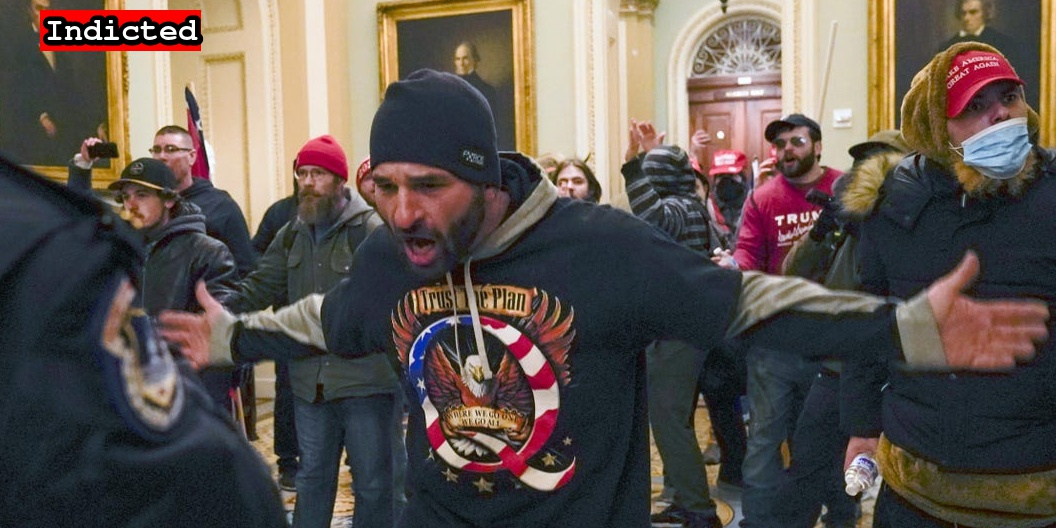
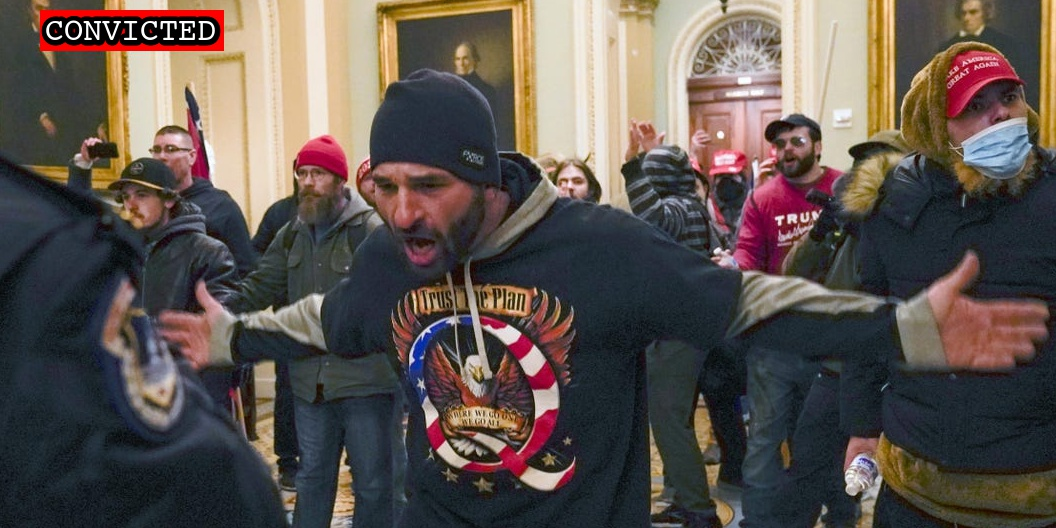
Jensen conviction

Changed region(s): [[0.0312, 0.0, 0.2188, 0.1212]]

diff --git a/docs/_suspects/douglas-jensen.md b/docs/_suspects/douglas-jensen.md
@@ -4,11 +4,11 @@ lastName: Jensen
 hashtag: BlackQShirt
 aka:
 residence: Iowa
-status: Indicted
+status: Convicted
 date: 2021-01-09
 charged: 2021-01-09
 indicted: 2021-01-11
-convicted:
+convicted: 2022-09-23
 acquitted:
 sentenced:
 dismissed:
@@ -36,15 +36,44 @@ layout: suspect
 published: true
 caseNumber: 1:21-cr-6
 videos:
-- title: Gov_t Exhibit A.MOV (0:00:10)
-  url: https://propublica-data-j6cases-videos.s3.us-east-1.amazonaws.com/e3987df0ce2c013960702cde48001122.mp4
-- title: Gov_t Exhibit C.MOV (0:00:18)
-  url: https://propublica-data-j6cases-videos.s3.us-east-1.amazonaws.com/e5195130ce2c013960702cde48001122.mp4
-- title: Gov_t Exhibit B.MOV (0:00:05)
-  url: https://propublica-data-j6cases-videos.s3.us-east-1.amazonaws.com/e7490c30ce2c013960702cde48001122.mp4
+  - title: Gov_t Exhibit A.MOV (0:00:10)
+    url: https://propublica-data-j6cases-videos.s3.us-east-1.amazonaws.com/e3987df0ce2c013960702cde48001122.mp4
+  - title: Gov_t Exhibit C.MOV (0:00:18)
+    url: https://propublica-data-j6cases-videos.s3.us-east-1.amazonaws.com/e5195130ce2c013960702cde48001122.mp4
+  - title: Gov_t Exhibit B.MOV (0:00:05)
+    url: https://propublica-data-j6cases-videos.s3.us-east-1.amazonaws.com/e7490c30ce2c013960702cde48001122.mp4
 charges:
+  - code: 18 USC § 231(a)(3)
+    title: Obstruction of Law Enforcement During Civil Disorder
+    url: https://www.law.cornell.edu/uscode/text/18/231
+    felony: true
+  - code: 18 USC § 1512(c)(2),2
+    title: Obstruction of an Official Proceeding (Aiding and Abetting)
+    url: https://www.law.cornell.edu/uscode/text/18/1512
+    felony: true
+  - code: 18 USC § 111(a)(1)
+    title: Assaulting, resisting, or impeding certain officers or employees
+    url: https://www.law.cornell.edu/uscode/text/18/111
+    felony: true
+  - code: 18 USC § 1752(a)(1) and b(1)(A)
+    title: Entering a restricted building or grounds (w/a deadly weapon)
+    url: https://www.law.cornell.edu/uscode/text/18/1752
+    felony: false
+  - code: 18 USC § 1752(a)(2) and b(1)(A)
+    title: Disorderly and Disruptive Conduct in a Restricted Building or Grounds (w/a deadly weapon)
+    url: https://www.law.cornell.edu/uscode/text/18/1752
+    felony: true
+  - code: 40 USC § 5104(e)(2)(D)
+    title: Disorderly Conduct in a Capitol Building
+    url: https://www.law.cornell.edu/uscode/text/40/5104
+    felony: false
+  - code: 40 USC § 5104(e)(2)(G)
+    title: Parading, demonstrating or picketing in a Capitol building
+    url: https://www.law.cornell.edu/uscode/text/40/5104
+    felony: false
 sentence:
 ---
+
 - [News Report](https://www.desmoinesregister.com/story/news/2021/01/09/fbi-arrests-des-moines-man-who-us-capitol-riot-booked-into-polk-county-jail-washington-dc/6607953002/)
 - [Self Incrimination](https://heavy.com/news/doug-jensen/)
 - [Indictment](https://www.justice.gov/usao-dc/case-multi-defendant/file/1537521/download)

diff --git a/docs/_suspects/leticia-ferreira.md b/docs/_suspects/leticia-ferreira.md
@@ -15,7 +15,7 @@ dismissed:
 deceased:
 plea_hearing: 2022-06-22
 trial_date:
-sentencing:
+sentencing: 2022-10-06
 age: 32
 occupation:
 affiliations:
